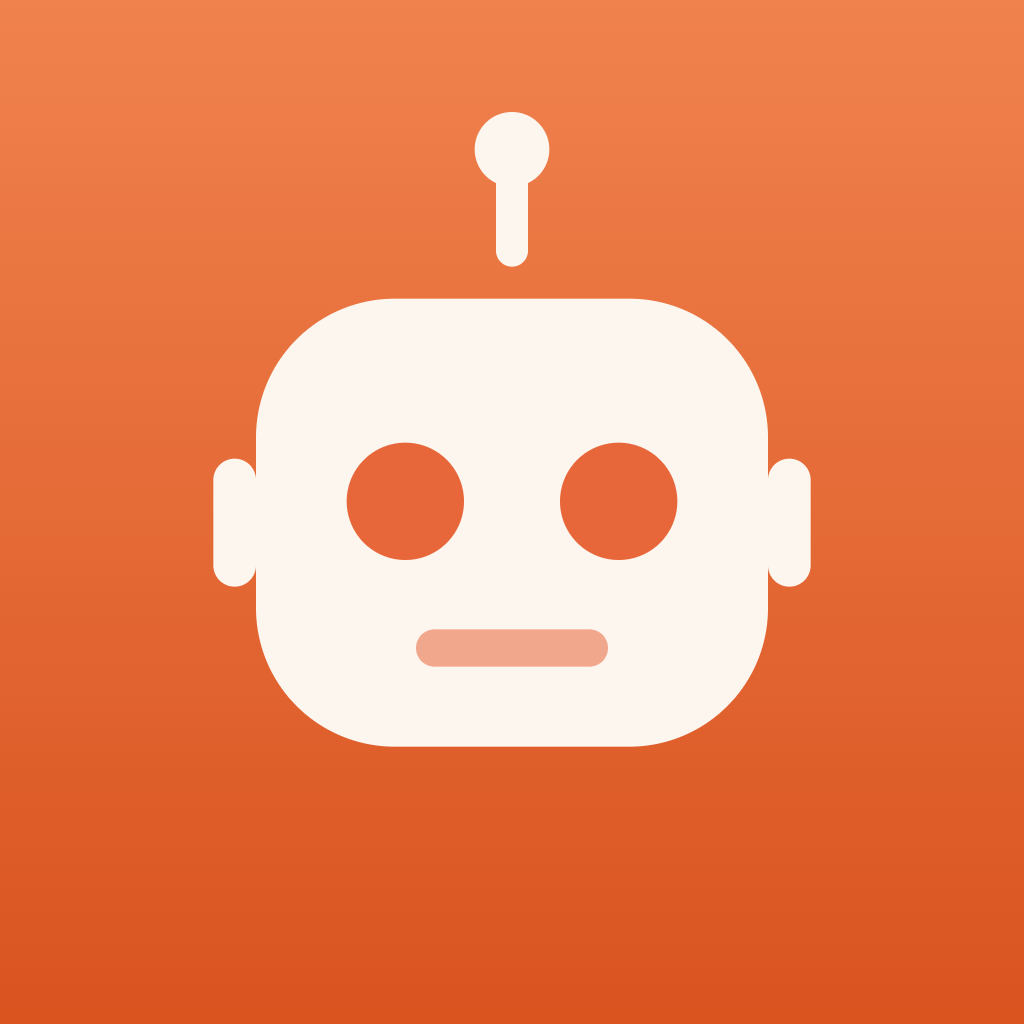
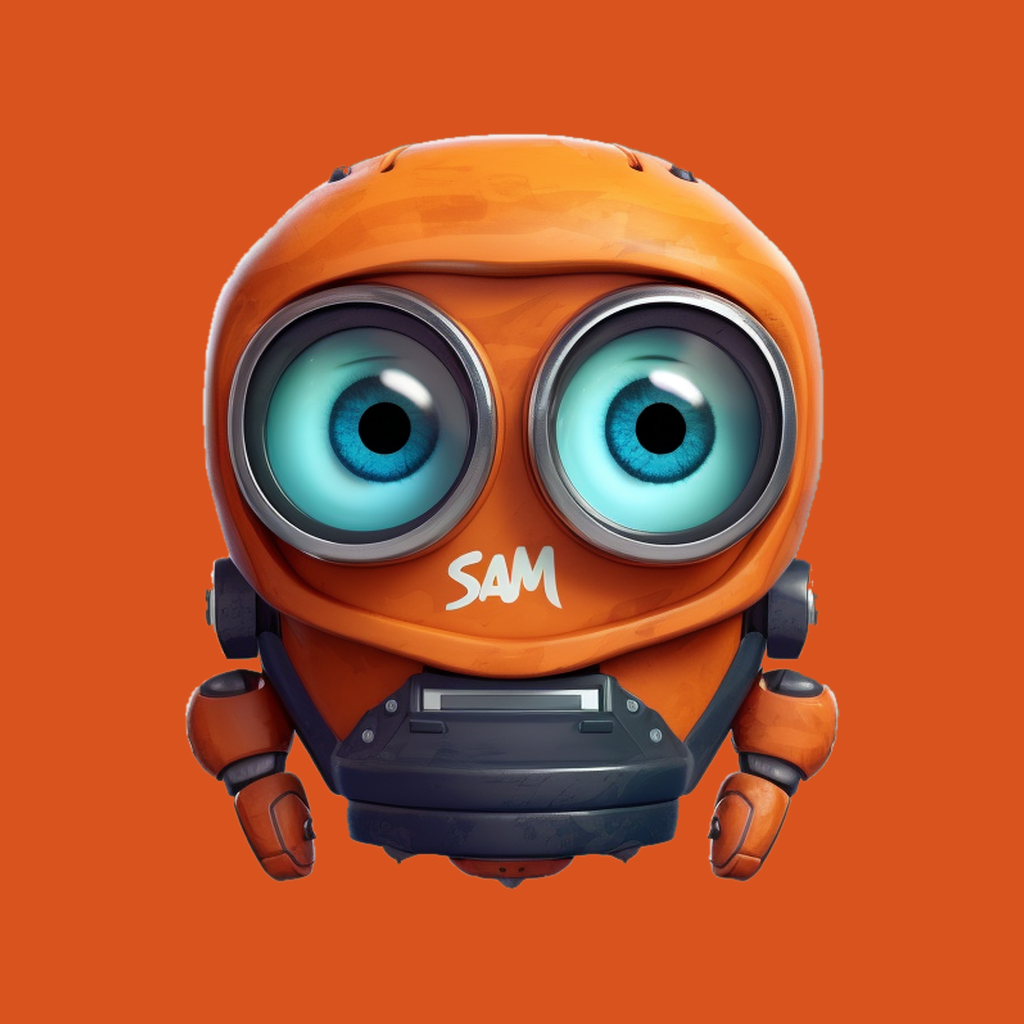
fix(pocket): close the three things the last four commits left open
All three were written up as "needs you" or "its own change". Two of them were
not. I had searched mobile/assets and concluded the mascot only existed at 512;
it exists at 1024 in src/assets/personas/sam-head-1024.png, in the same repo. And
I had called Increase Contrast unreachable from React Native; RN 0.86 ships
AccessibilityInfo.isDarkerSystemColorsEnabled and a darkerSystemColorsChanged
event, both iOS-only, both live.

THE APP STORE ICON. Rebuilt at a true 1024 from the 1024 source — no upscale —
opaque and square, mascot on #D9531F, because Apple requires no alpha and applies
its own corner mask. sam-mark.png and splash-icon.png come off the same cut.

Getting a clean cut took three attempts and each failure is worth recording,
because each one looked fine at thumbnail size:

  1. Keying the teal background by colour ANYWHERE in the frame ate the eyes —
     they are the same hue family, so it punched two holes through the mascot's
     defining feature. Fixed by flood-filling inward from the border, which
     leaves anything enclosed by the body alone.
  2. That still ate chunks of the dark navy TORSO, which is also blue-dominant.
     Fixed by gating the background test on brightness as well as hue, with a
     looser test used only to grow from a region already known to be background.
  3. The loose drip droplets survived as white specks floating on the terracotta
     — they read as drips on the original teal and as dust on a flat icon ground.
[…]

diff --git a/mobile/lib/ios.test.ts b/mobile/lib/ios.test.ts
@@ -1,5 +1,14 @@
 import { describe, expect, it } from 'vitest';
-import { type IOS, iosDark, iosLight, stateTone, stateToneText } from './ios';
+import {
+  type IOS,
+  iosDark,
+  iosDarkHighContrast,
+  iosLight,
+  iosLightHighContrast,
+  paletteFor,
+  stateTone,
+  stateToneText,
+} from './ios';
 
 // THE PALETTE HAS TO PROVE ITSELF NOW.
 //
@@ -30,6 +39,8 @@ const AA_LARGE = 3;
 const APPEARANCES: [string, IOS][] = [
   ['light', iosLight],
   ['dark', iosDark],
+  ['light + Increase Contrast', iosLightHighContrast],
+  ['dark + Increase Contrast', iosDarkHighContrast],
 ];
 
 describe('contrast — the formula itself', () => {
@@ -55,17 +66,15 @@ describe.each(APPEARANCES)('%s appearance', (_name, ios) => {
   // AA_LARGE HERE IS A DELIBERATE DEVIATION, NOT A LOWERED BAR.
   //
   // secondaryLabel is Apple's own light-mode value, rgba(60,60,67,0.6), and over #FFFFFF it
-  // measures 3.29:1 — under AA. Darkening it to pass would need alpha ~0.72, and even that
-  // only reaches 4.23:1 on groupedBg. It would also put SAM's secondary text at a different
-  // weight from every Settings.app row beside it, which is the exact fidelity ios.ts exists
-  // to hold.
+  // measures 3.44:1 — under AA. Darkening the BASE palette to pass would put SAM's secondary
+  // text at a different weight from every Settings.app row beside it, which is the exact
+  // fidelity ios.ts exists to hold. So the base palettes stay as Apple ships them, and this
+  // assertion holds them only to the large threshold on purpose.
   //
-  // The real defect is subtler and is NOT fixed here: iOS ships these as dynamic system
-  // colours that the OS darkens when the user turns on Increase Contrast. SAM hardcodes the
-  // hex, so it takes Apple's value and drops Apple's adaptation. The honest fix is to consume
-  // the dynamic colours (or mirror them behind an Increase Contrast check), not to invent a
-  // darker constant — and that is its own change.
-  it('keeps secondary text at least legible, and records that it is Apple-faithful rather than AA', () => {
+  // The gap is closed where iOS itself closes it: the Increase Contrast palettes, asserted in
+  // their own block below and wired live in App.tsx via isDarkerSystemColorsEnabled. A user who
+  // has asked the OS for more contrast now gets it; a user who has not gets Settings.app.
+  it('keeps secondary text at least legible, with the AA case carried by the Increase Contrast palette', () => {
     for (const ground of [ios.groupedBg, ios.card] as const) {
       expect(contrast(flatten(ios.secondaryLabel, ground), ground)).toBeGreaterThanOrEqual(AA_LARGE);
     }
@@ -112,6 +121,56 @@ describe.each(APPEARANCES)('%s appearance', (_name, ios) => {
   it('never returns the same tone for two states that mean different things', () => {
     const tones = ['done', 'failed', 'running'].map((s) => stateTone(s, ios));
     expect(new Set(tones).size).toBe(3);
+  });
+});
+
+describe('Increase Contrast — the adaptation the hardcoded hexes were dropping', () => {
+  // The exact gap the base palette is allowed to have, closed by the palette the OS asks for.
+  it('closes the light-mode secondary-text failure that base mode is documented as carrying', () => {
+    for (const ground of [iosLight.groupedBg, iosLight.card] as const) {
+      expect(contrast(flatten(iosLight.secondaryLabel, ground), ground)).toBeLessThan(AA);
+      expect(contrast(flatten(iosLightHighContrast.secondaryLabel, ground), ground)).toBeGreaterThanOrEqual(AA);
+    }
+  });
+
+  it('holds dark mode to AA too, where the base palette already passed', () => {
+    for (const ground of [iosDark.groupedBg, iosDark.card] as const) {
+      expect(contrast(flatten(iosDarkHighContrast.secondaryLabel, ground), ground)).toBeGreaterThanOrEqual(AA);
+    }
+  });
+
+  it('never makes anything FAINTER than the palette it replaces', () => {
+    for (const [base, hc] of [
+      [iosLight, iosLightHighContrast],
+      [iosDark, iosDarkHighContrast],
+    ] as const) {
+      for (const key of ['secondaryLabel', 'tertiaryLabel'] as const) {
+        const ground = base.card;
+        expect(
+          contrast(flatten(hc[key], ground), ground),
+          `${key} must not soften under Increase Contrast`,
+        ).toBeGreaterThanOrEqual(contrast(flatten(base[key], ground), ground));
+      }
+    }
+  });
+
+  // The base palettes are Apple's documented values and that fidelity is the whole thesis of
+  // ios.ts. Increase Contrast is a SECOND palette, never an edit to the first.
+  it('leaves the documented Apple palette untouched', () => {
+    expect(iosLight.label).toBe('#000000');
+    expect(iosLight.secondaryLabel).toBe('rgba(60,60,67,0.6)');
+    expect(iosDark.secondaryLabel).toBe('rgba(235,235,245,0.6)');
+  });
+
+  it('paletteFor picks the right one of the four, and treats anything not "dark" as light', () => {
+    expect(paletteFor('light', false)).toBe(iosLight);
+    expect(paletteFor('dark', false)).toBe(iosDark);
+    expect(paletteFor('light', true)).toBe(iosLightHighContrast);
+    expect(paletteFor('dark', true)).toBe(iosDarkHighContrast);
+    // RN hands over 'unspecified' and null; neither should crash or pick dark by accident.
+    expect(paletteFor(null)).toBe(iosLight);
+    expect(paletteFor(undefined)).toBe(iosLight);
+    expect(paletteFor('unspecified')).toBe(iosLight);
   });
 });
 

diff --git a/mobile/App.tsx b/mobile/App.tsx
@@ -2,6 +2,7 @@ import * as Linking from 'expo-linking';
 import { StatusBar } from 'expo-status-bar';
 import { useCallback, useEffect, useMemo, useRef, useState } from 'react';
 import {
+  AccessibilityInfo,
   ActivityIndicator,
   Image,
   Pressable,
@@ -17,7 +18,7 @@ import ChatScreen from './ChatScreen';
 import { claim, getHost, getToken } from './lib/api';
 import { enterDemo, leaveDemo, loadDemo } from './lib/demo';
 import { clearThread } from './lib/history';
-import { type IOS, iosDark, iosLight, type as iosType, metrics } from './lib/ios';
+import { type IOS, type as iosType, metrics, paletteFor } from './lib/ios';
 import { centreWhenRoomy, contentColumn, layoutFor } from './lib/layout';
 import { ensurePermission, notify } from './lib/notify';
 import { parsePairLink } from './lib/pairlink';
@@ -36,7 +37,31 @@ type Surface = 'agent' | 'tasks' | 'settings';
 
 export default function App() {
   const scheme = useColorScheme();
-  const ios = scheme === 'dark' ? iosDark : iosLight;
+
+  // Increase Contrast (Settings ▸ Accessibility ▸ Display & Text Size). iOS darkens its own
+  // label colours when this is on; SAM hardcodes those hexes, so without this it took Apple's
+  // values and dropped Apple's adaptation — see lib/ios.ts. Live, because the event fires and
+  // a user who turns it on while the app is open should not have to relaunch.
+  const [darkerColors, setDarkerColors] = useState(false);
+  useEffect(() => {
+    let alive = true;
+    // Optional-called: the API is iOS-only and absent on older runtimes, and a missing
+    // accessibility read must never be the thing that stops the app rendering.
+    AccessibilityInfo.isDarkerSystemColorsEnabled?.()
+      .then((v) => alive && setDarkerColors(!!v))
+      .catch(() => {
+        /* An unreadable accessibility setting means the default palette, never a dead app. */
+      });
+    const sub = AccessibilityInfo.addEventListener('darkerSystemColorsChanged', (v) =>
+      setDarkerColors(!!v),
+    );
+    return () => {
+      alive = false;
+      sub?.remove();
+    };
+  }, []);
+
+  const ios = useMemo(() => paletteFor(scheme, darkerColors), [scheme, darkerColors]);
   const s = useMemo(() => makeStyles(ios), [ios]);
 
   // app.json has always claimed supportsTablet, and nothing ever read the window size — so on an
@@ -434,6 +459,11 @@ const makeStyles = (ios: IOS) =>
       flexDirection: 'row', alignItems: 'center', justifyContent: 'center',
       gap: 12, paddingVertical: 7, paddingHorizontal: metrics.margin,
     },
-    demoBarText: { ...iosType.caption, color: ios.onTint, fontWeight: '700' },
-    demoBarLink: { ...iosType.caption, color: ios.onTint, fontWeight: '700', textDecorationLine: 'underline' },
+    // flexShrink so the sentence WRAPS instead of sliding off both edges of the screen at
+    // accessibility text sizes — caught at accessibility-extra-large, where the band read
+    // "emo · sample data, not connected to a SAM" with "Leave" cut in half. The band is the
+    // one piece of chrome that must stay legible at every size, because it is the thing
+    // stopping sample jobs being mistaken for real ones.
+    demoBarText: { ...iosType.caption, color: ios.onTint, fontWeight: '700', flexShrink: 1 },
+    demoBarLink: { ...iosType.caption, color: ios.onTint, fontWeight: '700', textDecorationLine: 'underline', flexShrink: 0 },
   });

diff --git a/mobile/lib/ios.ts b/mobile/lib/ios.ts
@@ -139,6 +139,57 @@ export const metrics = {
   separatorInset: 16,
 };
 
+// INCREASE CONTRAST — the adaptation SAM was dropping by hardcoding Apple's hexes.
+//
+// iOS ships label colours as DYNAMIC colours: when someone turns on Settings ▸ Accessibility ▸
+// Display & Text Size ▸ Increase Contrast, the system darkens them everywhere. SAM copied the
+// values as constants, which bought exact fidelity with Settings.app and silently threw away
+// the adaptation that comes with them. So a user who had explicitly asked the OS for more
+// contrast got none from this app.
+//
+// Measured, light mode secondaryLabel — rgba(60,60,67,0.6), used for every task timestamp and
+// every Section footer:
+//
+//   on #FFFFFF card ...... 3.44:1   under AA
+//   on #F2F2F7 grouped ... 3.29:1   under AA
+//
+// Dark mode needs no correction: the same token measures 5.94:1 and 6.36:1 against near-black,
+// so only the light variant moves. Alpha 0.73 is the least that clears 4.5:1 on BOTH grounds
+// (4.85:1 and 4.60:1) — arrived at the same way the tint split was, by searching for the
+// smallest change that passes rather than picking a number that looks darker.
+//
+// The base palettes stay EXACTLY as Apple documents them. This is a second palette that the
+// OS asks for, not a correction to the first.
+export const iosLightHighContrast: IOS = {
+  ...iosLight,
+  secondaryLabel: 'rgba(60,60,67,0.73)',
+  tertiaryLabel: 'rgba(60,60,67,0.5)',
+};
+
+export const iosDarkHighContrast: IOS = {
+  ...iosDark,
+  // secondaryLabel already passes; tertiary is placeholder and chevron ink, and Increase
+  // Contrast is exactly the setting that says "stop making things faint at me".
+  tertiaryLabel: 'rgba(235,235,245,0.5)',
+};
+
+/**
+ * The palette for the appearance AND the accessibility setting, in one place, so no screen has
+ * to remember there are four. `darkerSystemColors` comes from
+ * AccessibilityInfo.isDarkerSystemColorsEnabled() and its darkerSystemColorsChanged event —
+ * both iOS-only, both live, so toggling the setting re-themes the running app.
+ */
+export function paletteFor(
+  // Widened deliberately: RN's ColorSchemeName includes 'unspecified', and anything that is not
+  // literally 'dark' means light — which is also the correct answer for null on first frame.
+  scheme: string | null | undefined,
+  darkerSystemColors = false,
+): IOS {
+  const dark = scheme === 'dark';
+  if (darkerSystemColors) return dark ? iosDarkHighContrast : iosLightHighContrast;
+  return dark ? iosDark : iosLight;
+}
+
 /** What colour a job's state reads as. Lives here rather than in either screen because it is
  *  now used by both the Tasks list and the Agent screen's "pick up where you left off" cards,
  *  and a job that is green in one list and grey in the other is a job the operator has to

diff --git a/mobile/ChatScreen.tsx b/mobile/ChatScreen.tsx
@@ -640,7 +640,7 @@ export default function ChatScreen({
           accessibilityLabel="Attach"
           accessibilityHint="Photos, files and capabilities"
         >
-          <Text style={s.plusText}>+</Text>
+          <Text style={s.plusText} allowFontScaling={false}>+</Text>
         </Pressable>
         {/* Inside the composer, beside the thing it affects — a setting that lives somewhere else
             is a setting nobody connects to the message they are about to send. */}
@@ -698,7 +698,14 @@ export default function ChatScreen({
           accessibilityLabel={busy ? 'Stop' : 'Send'}
           accessibilityState={{ disabled: !busy && !draft.trim() && !attached.length }}
         >
-          <Text style={{ color: busy ? ios.label : draft.trim() || attached.length ? ios.onTint : ios.secondaryLabel, fontSize: 15, fontWeight: '700' }}>
+          {/* allowFontScaling={false} on the GLYPH only. The circle is a fixed 32pt hit
+              target by design and a growing character inside it clips; the control's meaning
+              travels in its accessibilityLabel, which Dynamic Type does not touch. Same call
+              the Glyph tile in ui.tsx already documents. */}
+          <Text
+            allowFontScaling={false}
+            style={{ color: busy ? ios.label : draft.trim() || attached.length ? ios.onTint : ios.secondaryLabel, fontSize: 15, fontWeight: '700' }}
+          >
             {busy ? '■' : '↑'}
           </Text>
         </Pressable>
@@ -830,7 +837,9 @@ function makeStyles(ios: IOS) {
     // The brain pill sits in the composer row, so it is sized to the 32pt controls either side of
     // it rather than to its own text — a control that changes height when the label changes from
     // 'Auto' to 'Turbo' makes the whole row twitch.
-    brainPill: { height: 32, justifyContent: 'center', paddingHorizontal: 10, borderRadius: 16 },
+    // minHeight, not height: this one carries a WORD ("Auto", "Free only"), so it has to be
+    // allowed to grow with the type the way metrics.rowMinHeight lets a row grow.
+    brainPill: { minHeight: 32, justifyContent: 'center', paddingHorizontal: 10, paddingVertical: 6, borderRadius: 16 },
     brainPillText: { ...iosType.caption, fontWeight: '600' },
     brainScrim: { flex: 1, backgroundColor: ios.scrim, justifyContent: 'flex-end' },
     brainSheet: {

diff --git a/mobile/ui.tsx b/mobile/ui.tsx
@@ -162,20 +162,32 @@ export function Row({
       <View style={s.row}>
         {glyph ? <Glyph ios={ios} glyph={glyph} style={{ marginRight: GLYPH_GAP }} /> : null}
         <View style={{ flex: 1 }}>
+          {/* TWO LINES, NOT ONE.
+              Both of these were numberOfLines={1}. A title truncates rarely; a subtitle is
+              "Upload to the host — the host refused the token" and truncated at exactly the
+              point the sentence starts being useful. At accessibility text sizes it lost
+              almost everything. Two lines is still a bounded row — the list stays scannable —
+              but the failure now fits, and the row grows with the type instead of clipping it
+              because metrics.rowMinHeight is a MINIMUM. */}
           <Text
             style={[type.body, { color: destructive ? ios.destructive : ios.label }]}
-            numberOfLines={1}
+            numberOfLines={2}
           >
             {title}
           </Text>
           {subtitle ? (
-            <Text style={[type.footnote, { color: ios.secondaryLabel, marginTop: 2 }]} numberOfLines={1}>
+            <Text style={[type.footnote, { color: ios.secondaryLabel, marginTop: 2 }]} numberOfLines={2}>
               {subtitle}
             </Text>
           ) : null}
         </View>
         {value ? (
-          <Text style={[type.body, { color: ios.secondaryLabel, marginLeft: 8 }]} numberOfLines={1}>
+          // flexShrink so a long value yields to the title rather than pushing it out of the
+          // row; at AX sizes "18400 tokens" would otherwise take the whole width.
+          <Text
+            style={[type.body, { color: ios.secondaryLabel, marginLeft: 8, flexShrink: 1 }]}
+            numberOfLines={1}
+          >
             {value}
           </Text>
         ) : null}
@@ -243,7 +255,9 @@ export function Field({
   return (
     <View>
       <View style={s.row}>
-        <Text style={[type.body, { color: ios.label, width: 96 }]} numberOfLines={1}>
+        {/* minWidth so the labels still line up, but a long word at AX sizes is allowed to
+            take the room it needs instead of truncating to "Addr…". */}
+        <Text style={[type.body, { color: ios.label, minWidth: 96, flexShrink: 0 }]} numberOfLines={1}>
           {label}
         </Text>
         <TextInput

diff --git a/mobile/AddSheet.tsx b/mobile/AddSheet.tsx
@@ -179,7 +179,7 @@ export default function AddSheet({
           style={{
             flexDirection: 'row',
             alignItems: 'center',
-            height: 44,
+            minHeight: 44,   // a nav bar holding scaling text has to be a floor, not a ceiling
             paddingHorizontal: metrics.margin,
             borderBottomWidth: metrics.hairline,
             borderBottomColor: ios.separator,
